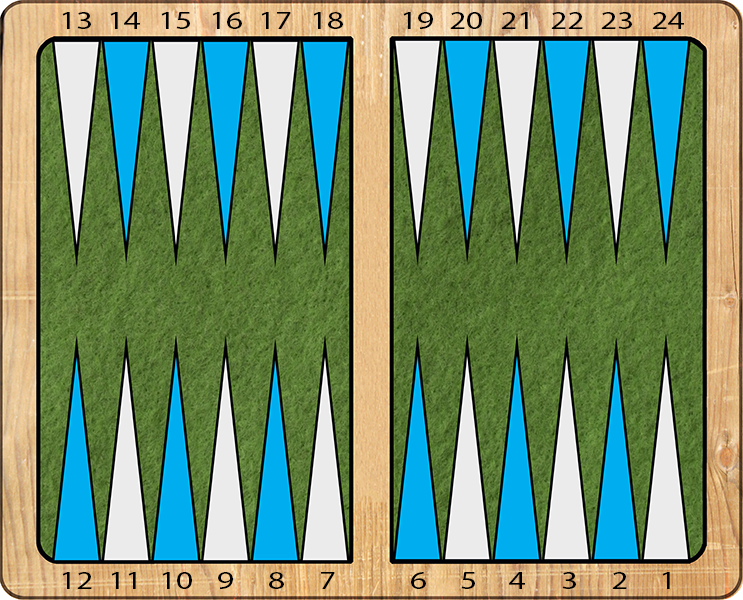
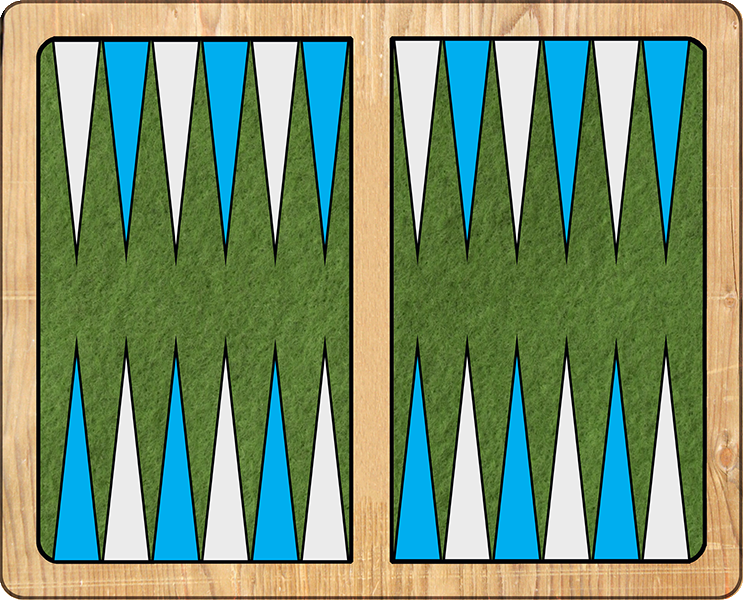
Start of new drawing

diff --git a/src/Game.java b/src/Game.java
@@ -18,7 +18,7 @@ public class Game {
             Game game = new Game();
             //Sleeping to avoid race condition
             sleep(1000);
-            game.initPoints();
+
             game.startingPositions(game.window);
             sleep(2000);
             game.demoCheckers(game.window);
@@ -41,12 +41,12 @@ public class Game {
     }
     //Set up checkers in their initial positions
     private void startingPositions(Window window) {
+        //TODO: Get rid of for loop
         for(int i=0; i<30; i++) {
             if(i==0) {
                 pointList[i].addChecker();
                 pointList[i].addChecker();
                 pointList[i].setColor("Red");
-                pointList[i].drawPoint(window);
             }
             if(i==5) {
                 pointList[i].addChecker();
@@ -55,7 +55,6 @@ public class Game {
                 pointList[i].addChecker();
                 pointList[i].addChecker();
                 pointList[i].setColor("Black");
-                pointList[i].drawPoint(window);
 
             }
             if(i==7) {
@@ -63,7 +62,6 @@ public class Game {
                 pointList[i].addChecker();
                 pointList[i].addChecker();
                 pointList[i].setColor("Black");
-                pointList[i].drawPoint(window);
             }
             if(i==11) {
                 pointList[i].addChecker();
@@ -72,7 +70,6 @@ public class Game {
                 pointList[i].addChecker();
                 pointList[i].addChecker();
                 pointList[i].setColor("Red");
-                pointList[i].drawPoint(window);
             }
             if(i==12) {
                 pointList[i].addChecker();
@@ -81,14 +78,12 @@ public class Game {
                 pointList[i].addChecker();
                 pointList[i].addChecker();
                 pointList[i].setColor("Black");
-                pointList[i].drawPoint(window);
             }
             if(i==16) {
                 pointList[i].addChecker();
                 pointList[i].addChecker();
                 pointList[i].addChecker();
                 pointList[i].setColor("Red");
-                pointList[i].drawPoint(window);
 
             }
             if(i==18) {
@@ -98,13 +93,11 @@ public class Game {
                 pointList[i].addChecker();
                 pointList[i].addChecker();
                 pointList[i].setColor("Red");
-                pointList[i].drawPoint(window);
             }
             if(i==23) {
                 pointList[i].addChecker();
                 pointList[i].addChecker();
                 pointList[i].setColor("Black");
-                pointList[i].drawPoint(window);
             }
         }
     }

diff --git a/src/Board.java b/src/Board.java
@@ -1,20 +1,28 @@
+import javax.imageio.ImageIO;
 import javax.swing.*;
 import javax.swing.border.EmptyBorder;
 
+import java.awt.*;
+import java.awt.image.BufferedImage;
+import java.io.IOException;
+
 import static java.lang.Thread.sleep;
 
-public class Board {
+public class Board extends JPanel {
 
     //Image icon declaration for board
-    private static ImageIcon image;
+    private BufferedImage boardImg;
+    private Graphics2D g;
 
     public Board(Window window){
-        //Assigning an image to a new Board object
-        image = new ImageIcon(window.getClass().getResource("Resources/SmallBoard.png"));
-        //Giving the board a padding border
-        window.boardLabel = new JLabel(image);
-        window.boardLabel.setBorder(new EmptyBorder( 16, 16, 16, 48 ) );
         //SoundManager.playSound();
+        try {
+            boardImg = ImageIO.read(this.getClass().getResource("Resources/SmallBoard.png"));
+        }
+        catch (IOException e) {
+            e.printStackTrace();
+            System.exit(-1);
+        }
     }
     public void move(Point from, Point to, Window window) {
         from.removeChecker();
@@ -23,18 +31,24 @@ public class Board {
         update(window);
     }
     public void update(Window window) {
-        try{
-            window.boardLabel.repaint();
-            sleep(100);
-            for(int i=0;i<26;i++) {
-                Game.pointList[i].drawPoint(window);
+    }
+    public void paintComponent(Graphics graphics) {
+        super.paintComponent(graphics);
+        g = (Graphics2D) graphics;
+        //Draw board
+        g.drawImage(boardImg,0,0,743, 600, null);
+        //Drawing numbers on points
+        g.setColor(Color.WHITE);
+        g.setFont(new Font("Courier",Font.BOLD,16));
+        for(int i=0;i<25;i++) {
+            if(Game.pointList[i].getyLoc()==51) {
+                g.drawString(Integer.toString(i), Game.pointList[i].getxLoc(), Game.pointList[i].getyLoc() + 32);
             }
+            else {
+                g.drawString(Integer.toString(i),Game.pointList[i].getxLoc(),Game.pointList[i].getyLoc()-32);
+            }
+            Game.pointList[i].drawPoint(g);
         }
-        catch (Exception e) {
-            e.printStackTrace();
-            System.exit(-1);
-        }
-
 
     }
 }

diff --git a/src/Window.java b/src/Window.java
@@ -19,7 +19,6 @@ public class Window extends JFrame {
     //JPanel to contain all die JLabels
     protected JPanel diePanel= new JPanel();
 
-    public JLabel boardLabel;     //Label with the board image on it
     protected JLabel dieLabel1_1;    //Label with player 1 Die 1 image on it
     protected JLabel dieLabel1_2;    //Label with player 1 Die 2 image on it
     protected  JLabel dieLabel2_1;    //Label with player 2 Die 1 image on it
@@ -70,11 +69,10 @@ public class Window extends JFrame {
 
         //Adding components to JFrame
         //diePanel.setLayout(new BoxLayout(diePanel, BoxLayout.Y_AXIS));    //might need for positioning
-        frame.getContentPane().add(BorderLayout.CENTER, diePanel);  //STILL TWEAKING - alternatively might need for tweaking
-        //Adding board JLabel to JFrame
-        frame.getContentPane().add(BorderLayout.LINE_END, boardLabel);
         //Adding die JPanel to JFrame
-        frame.add(diePanel);
+        //frame.getContentPane().add(BorderLayout.CENTER, diePanel);  //STILL TWEAKING - alternatively might need for tweaking
+        //Adding board image to JFrame
+        frame.getContentPane().add(BorderLayout.CENTER, board);
         //Adding info JLabel to JFrame
         frame.getContentPane().add(BorderLayout.LINE_START, infoLabel);
         frame.setVisible(true);

diff --git a/src/Point.java b/src/Point.java
@@ -30,9 +30,7 @@ public class Point {
         return this.occupyingColor;
     }
 
-    public void drawPoint(Window window) {
-        Graphics graphics = window.boardLabel.getGraphics();
-        Graphics2D g = (Graphics2D) graphics;
+    public void drawPoint(Graphics2D g) {
         if(occupyingColor=="Black") {
             g.setColor(Color.BLACK);
         }

diff --git a/src/Buttons.java b/src/Buttons.java
@@ -5,7 +5,7 @@ import java.awt.event.ActionListener;
 
 public class Buttons {
 
-    protected static JTextField textField = new JTextField();
+    protected JTextField textField = new JTextField();
     private commandHandler commands = new commandHandler();
 
     //action listener for enter button
